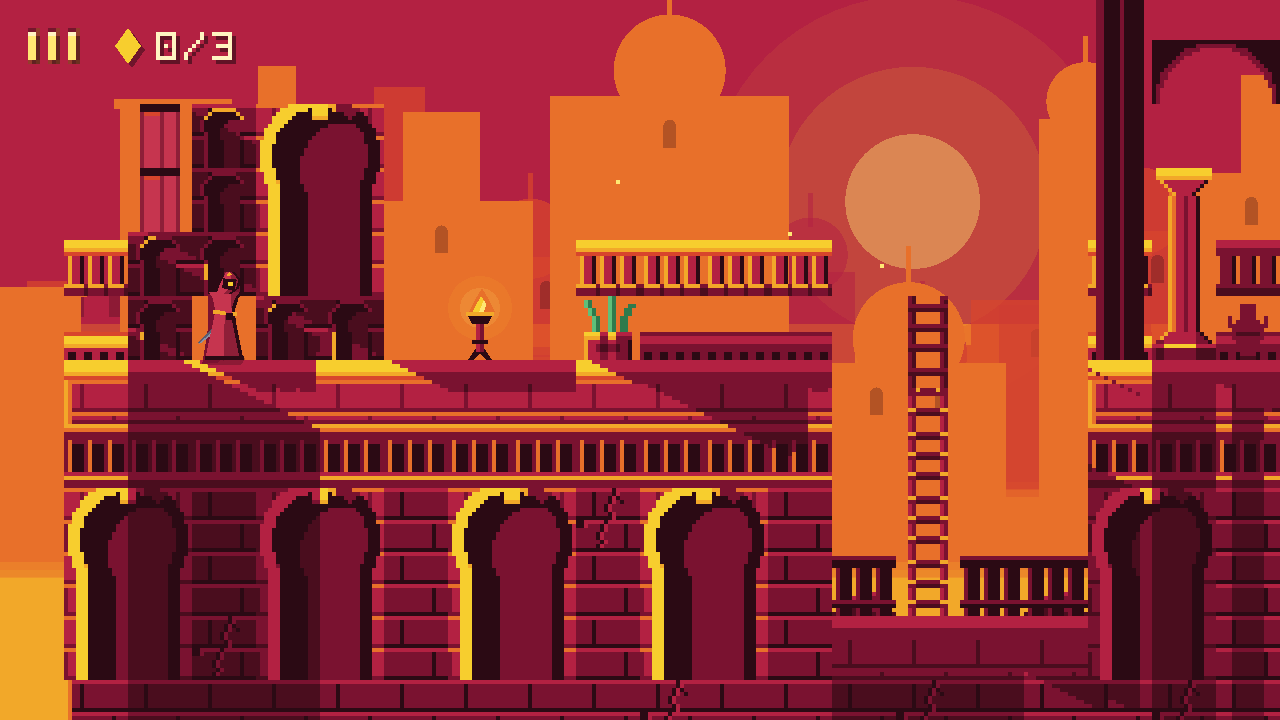
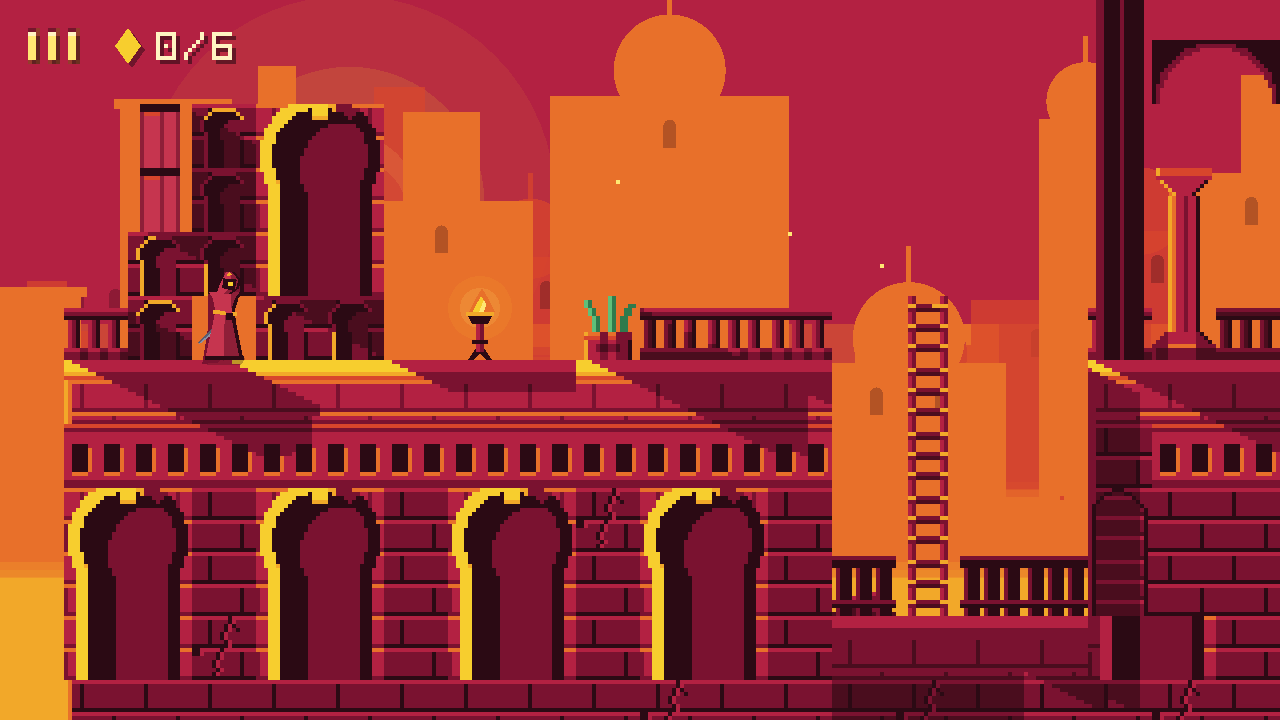
Re-render the public images, and tell the Adventure as it is now built
Every public image predated the campaign, the sun moving left, the grade on
the stone, the King's new size, or this morning's atlas, and the README still
said the chapters after the first were being built. Rendered from this tree:

- docs/campaign/campaign.png, new: the contact sheet of The Last Light, each
  chapter under its card at its hour, the Eclipse's card and its fight, and
  the dawn; in the README and in the bible's "The campaign, played".
- docs/screenshot.png, docs/duel-match.png, docs/feel-frames.png, every pose
  sheet (the Eclipse's in larger cells, to hold him), the two chapter tours,
  and the site's frames through site/render_images.sh; site/assemble.sh
  still assembles. tools/level_tour.gd gains --face, so Chapter IV's tour
  shows the last ray again, falling the tower's whole height.

The README's Adventure is now the campaign: the pitch, the five chapters and
the finale with their hours, their machines and their foes, the moves every
foe answers, and the time a clear takes; the duel strips section is kept as
main has it. The site's blurb and the menu's alt text say the same.

Claude-Session: https://claude.ai/code/session_01CS5kLXfHzuqFJNCkKoEvRT

diff --git a/site/public/index.html b/site/public/index.html
@@ -54,7 +54,7 @@
 			srcset="img/menu-960.webp 960w, img/menu-1920.webp 1920w"
 			sizes="(min-width: 1200px) 1120px, 100vw"
 			width="960" height="540"
-			alt="The title screen: SWORDKNIGHTS over a skyline of domes and towers, with the modes Adventure, Endless, Duel, Duel Online, Feel Lab and Sound.">
+			alt="The title screen: SWORDKNIGHTS over a skyline of domes and towers, with the modes Adventure, Endless, Duel, Feel Lab, Wardrobe and Settings, and the Adventure's name, The Last Light.">
 		<a class="button stage-start" href="play/" data-start>Start the game</a>
 	</div>
 	<p class="stage-note">
@@ -124,8 +124,13 @@
 			<p>A platformer with the cadence of <cite>Prince of Persia</cite>: movement with
 			weight to it, jumps you commit to, and ledge grabs that happen by themselves when
 			you fall past a corner while moving into it. Press up to mantle, down to let go.</p>
-			<p><b>Adventure</b> is the hand-built city, starting on the Sun Terrace.
-			<b>Endless</b> chains generated levels, and each one is proven reachable before
+			<p><b>Adventure</b> is <cite>The Last Light</cite>: one evening in a city built to
+			keep the sun, in five hand-built chapters from the late-afternoon Sun Terrace to the
+			Sun Well at night, and a King to face in the Vault at the bottom. Each chapter
+			brings one new foe and one new machine &mdash; a shield-bearer, a hunting cat, a
+			man with a burning glass, an owl; counterweighted gates, crumbling stone, mirrors
+			that aim the low sun, blades on the music's beat &mdash; and the light goes down as
+			you go. <b>Endless</b> chains generated levels, and each one is proven reachable before
 			you are given it. <b>Feel Lab</b> lines up every kind of obstacle side by side,
 			to try the movement on.</p>
 		</div>

diff --git a/README.md b/README.md
@@ -114,13 +114,40 @@ Presses are forgiven at both ends: a jump made a moment before you land still
 fires, a jump just after running off an edge still counts, and a quick tap of
 jump is a short hop rather than nothing.
 
-**Adventure** is *The Last Light*, played chapter by chapter from the chapter
-select: CONTINUE carries on from the first chapter you have not cleared, and
-each chapter keeps your best time and the most relics and secrets you have
-found in it. Clearing a chapter opens the next; jump on the complete screen
-plays it. Chapter I, the Sun Terrace, is built; the chapters after it are
-listed and marked as still being built. There is one assist, **longer
-warnings**, under SETTINGS: every foe's tell lasts half as long again.
+**Adventure** is *The Last Light*: one evening in a stone city built to
+keep the sun, crossed chapter by chapter as the light goes down. The King has
+turned the city's mirrors away to keep the last light for himself, and its
+last swordknight -- whose blade, like every swordknight's, is polished to a
+mirror -- has until nightfall to send it down the Sun Well and then follow it.
+
+| | Chapter | Hour | What it is built on | The foe, and the move it is for |
+| --- | --- | --- | --- | --- |
+| I | The Sun Terrace | late afternoon | the ledge grab, ladders, secrets | the sentinel — the sword |
+| II | The Long Arcade | golden hour | counterweights: plates, portcullises, lifts, an iron grate | the Bastion, behind his pavise — the plunge |
+| III | The Aqueduct | sunset | crumbling stone over a ravine | the Caracal, the King's hunting cat — the backstep |
+| IV | The Mirror Tower | dusk | sun mirrors and sun-sealed doors: aim the low sun | the Glassbearer and his burning glass — the parry, sending his bolt home |
+| V | The Sun Well | night, lit by fire | scythes and spike slots on the music's beat | the owl, which takes what is off the stone — the air slash |
+| — | The Eclipse | night | the Vault of the kept sun | the King: four phases, each an earlier foe's lesson, ending on the parry |
+
+and then the dawn.
+
+![The Last Light: each chapter under its card at its hour, the Eclipse, and the dawn](docs/campaign/campaign.png)
+
+Every foe answers every move the prince has -- the sword,
+the plunge, the stomp, the parry, the backstep, the roll, the dive kick, the
+sweep and the thrown sword -- each in its own way, the same in every chapter
+([`docs/campaign.md`](docs/campaign.md), "The bestiary"); every threat is told
+27 frames ahead by a pose, a glint and a sound; and the hour is a grade over
+the whole city, with what you must read lifted out of it. A steady clear of
+the whole campaign takes a little over four minutes of play; a first one with
+deaths, twenty or so.
+
+The chapter select is a place: CONTINUE carries on from the first chapter
+you have not cleared, and each chapter keeps your best time and the most
+relics and secrets you have found in it. Clearing a chapter opens the next;
+jump on the complete screen plays it, under its own card. There is one
+assist, **longer warnings**, under SETTINGS: every foe's tell and every timed
+window that guards a death lasts half as long again.
 
 Every torch you reach on foot is a checkpoint: the flame flares, and a death
 sends you back there rather than to the start. Relics you picked up and guards
@@ -129,9 +156,11 @@ you cut down stay that way; the clock keeps running.
 The city keeps **secret rooms** behind bricked-up doorways. Look for the
 outline of an arch filled in with smaller stones: air moving through its
 joints means you can walk through it; a crack shedding grit means your sword
-can open it, and a cracked floor gives under a plunge. The Sun Terrace hides
-three, the complete screen counts them, and some Endless ruins hide one. None
-is ever the way to the door, and none can trap you.
+can open it, a cracked floor gives under a plunge, and in the Mirror Tower one
+door opens only to the sun. Every chapter hides three, the complete screen
+counts them, and one in each chapter holds the masons' inscription; read in
+order, they are the story. Some Endless ruins hide one too. None is ever the
+way to the door, and none can trap you.
 
 **Endless** is a descent: each ruin you escape leads down into a new one, a
 step harder, from a gentle first ruin up to the generator's hardest. The ruin
@@ -356,8 +385,11 @@ In progress: the duel's open items, listed under *Status* in
 [`docs/duel-match.md`](docs/duel-match.md). The specification and the
 objections to it are in [`docs/duel-spec.md`](docs/duel-spec.md).
 
-Not built yet: more hand-authored levels, enemy AI beyond a patrol route,
-cutscenes.
+The Adventure, *The Last Light*, is built: five chapters, the Eclipse and the
+dawn, each proved reachable and played end to end by a frozen clear run
+(`tests/unit/test_campaign_run.gd`); its bible and open items are in
+[`docs/campaign.md`](docs/campaign.md). Not built: cutscenes, on purpose --
+the story is told by cards, inscriptions, the city and its set pieces.
 
 ## History
 

diff --git a/docs/campaign.md b/docs/campaign.md
@@ -641,7 +641,8 @@ The scripted clear run below is that line, and clears in 56 s.
 the great mirror's beam reaches the Well: the square and the Well's mouth,
 the hall and its lift, the face in shade, the first light and the stairwell,
 the shaft's lift, R5 and R6, the roof, and the summit's great mirror with the
-last ray falling the tower's whole height.*
+last ray falling the tower's whole height. `tools/level_tour.gd -- --level
+res://levels/chapter_04.txt --face 5,6,DOWN` renders it.*
 
 **As built.** Building the draft changed these, each because building or
 playing it showed a flaw:
